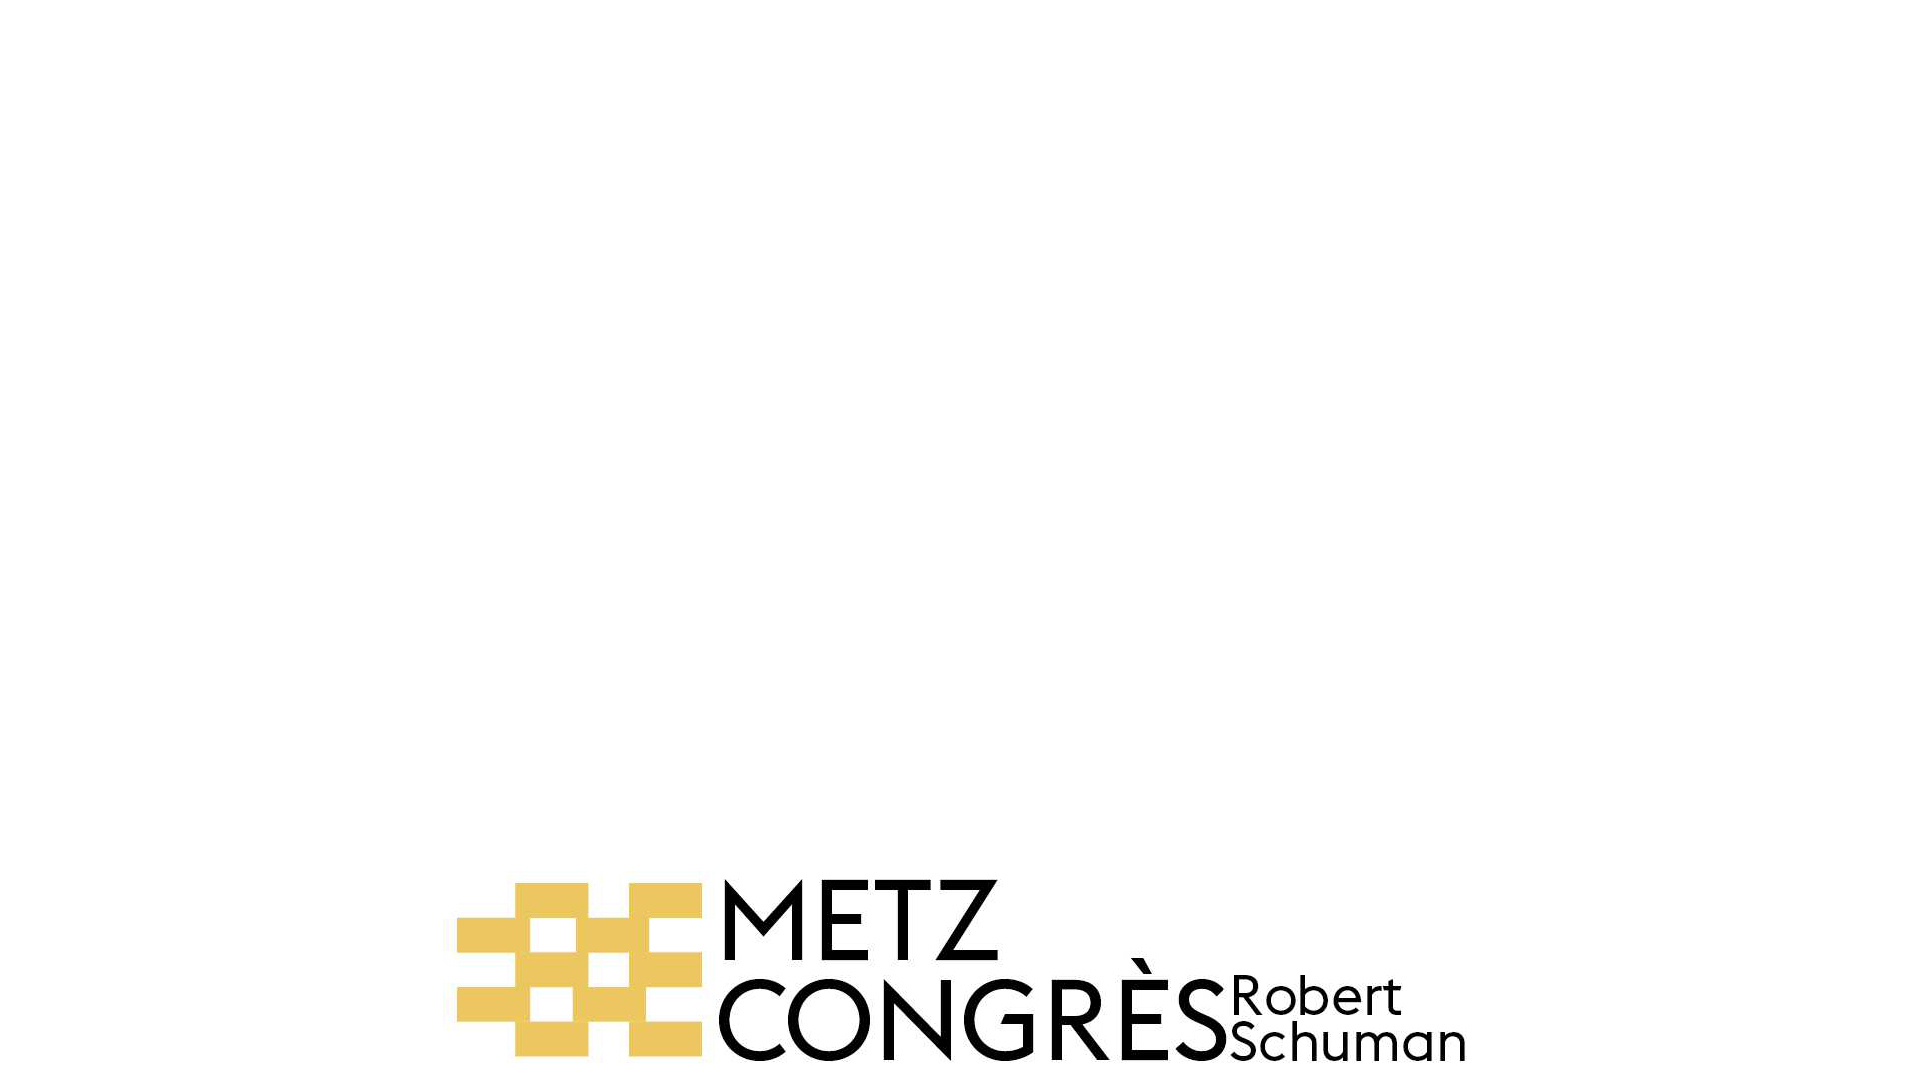
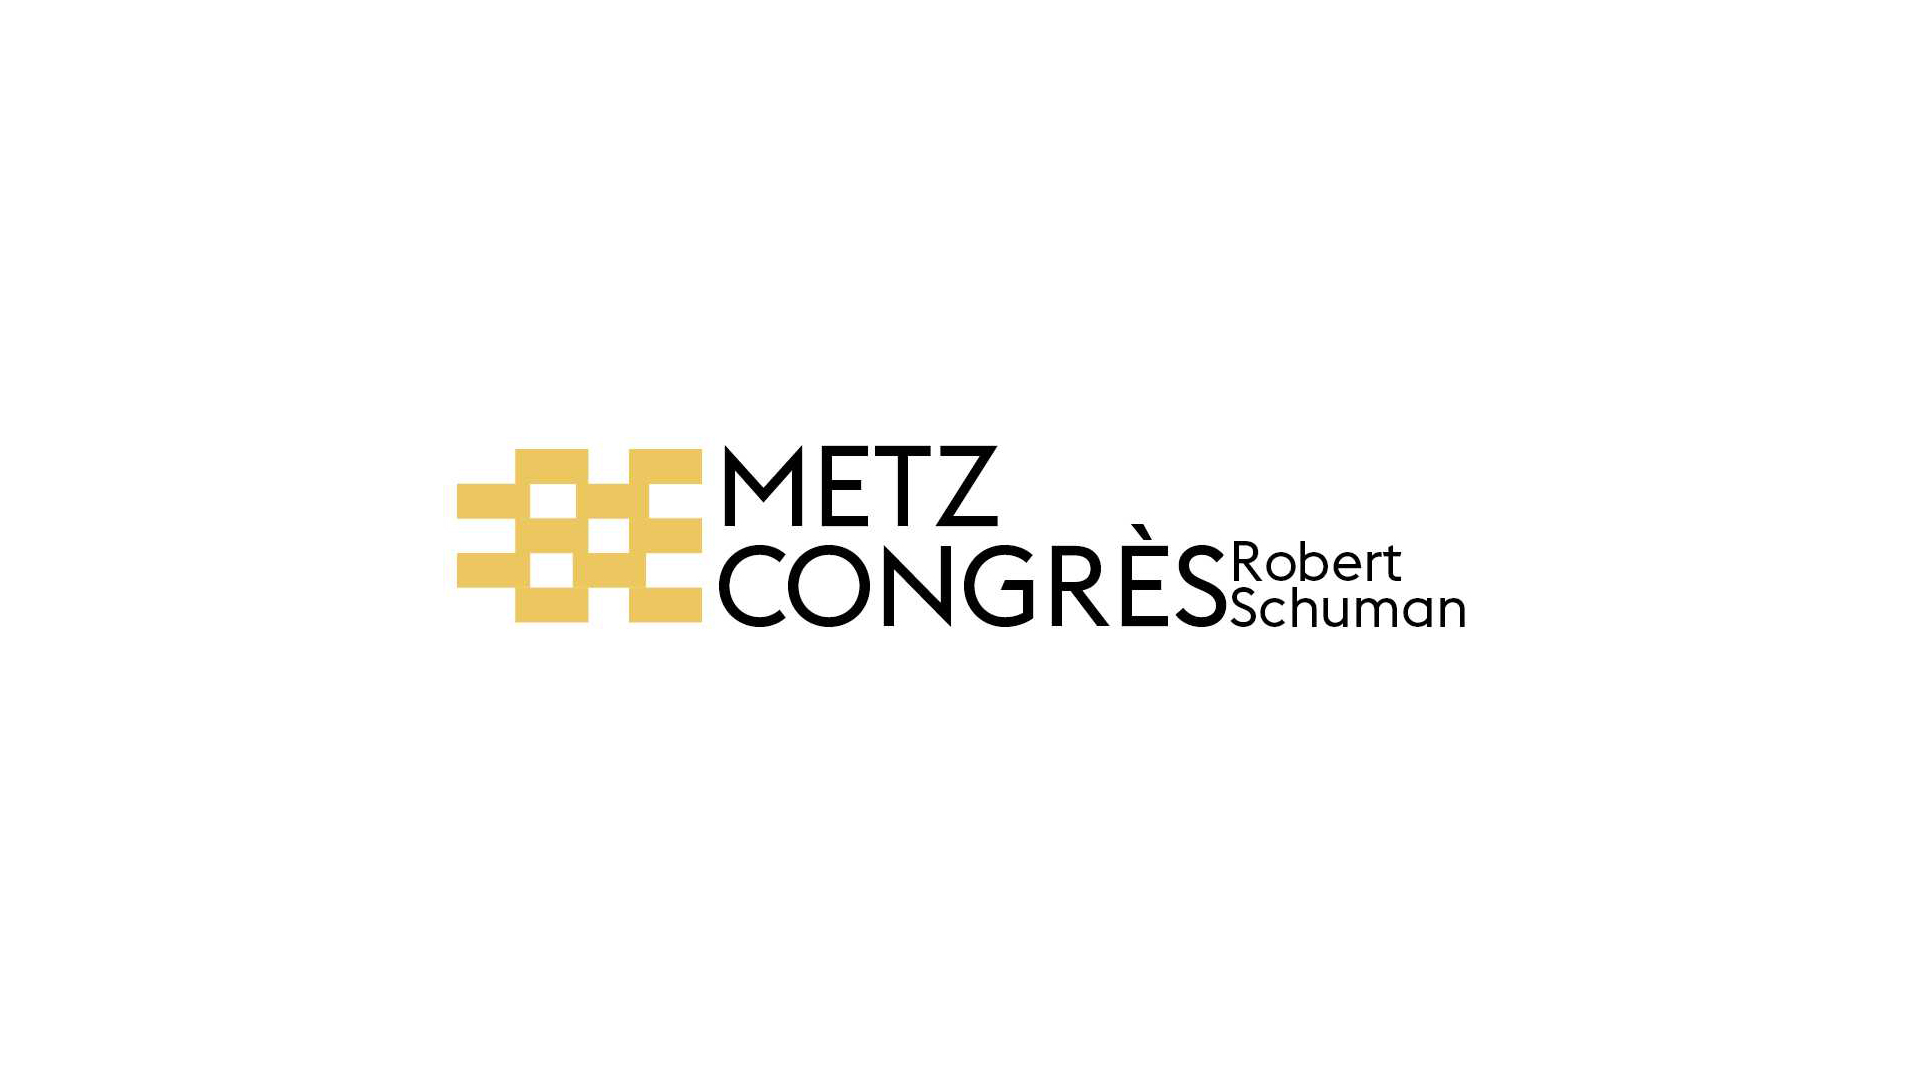
modified:   .vs/VSWorkspaceState.json 	modified:   .vs/mcrs/v15/.suo 	modified:   .vs/slnx.sqlite 	modified:   public/images/schuman1080.jpg 	modified:   resources/views/roomTitle.blade.php
Untracked files:
	public/images/schuman1080bas.jpg

Changed region(s): [[0.2188, 0.7944, 0.7812, 1.0], [0.2188, 0.3972, 0.7812, 0.5806]]

diff --git a/resources/views/roomTitle.blade.php b/resources/views/roomTitle.blade.php
@@ -14,7 +14,8 @@
         <style>
             html, body {
                 background-color: #fff;
-				background-image: url('../images/schuman1080.jpg');
+
+				
                 color: black;
                 /*font-family: 'Raleway', sans-serif;*/
 				font-family : 'Arial';
@@ -23,10 +24,18 @@
 				height : 100%;
 				margin : 0;
 				padding : 0;
-				background-size: cover;
+				background-size: contain;
 				background-repeat : no-repeat;
 				overflow : hidden;
             }
+
+			.occupied{
+				background-image: url('../images/schuman1080bas.jpg');
+			}
+
+			.empty{
+				background-image: url('../images/schuman1080.jpg');
+			}
 
             .full-height {
                 height: 100vh;
@@ -74,7 +83,7 @@
             }
         </style>
     </head>
-    <body>
+    <body @if (sizeof($rooms) > 0) class= "occupied" @else class = "empty" @endif>
         <div class="flex-center position-ref full-height">
             <div class="content">
 				@foreach ($rooms as $room)
